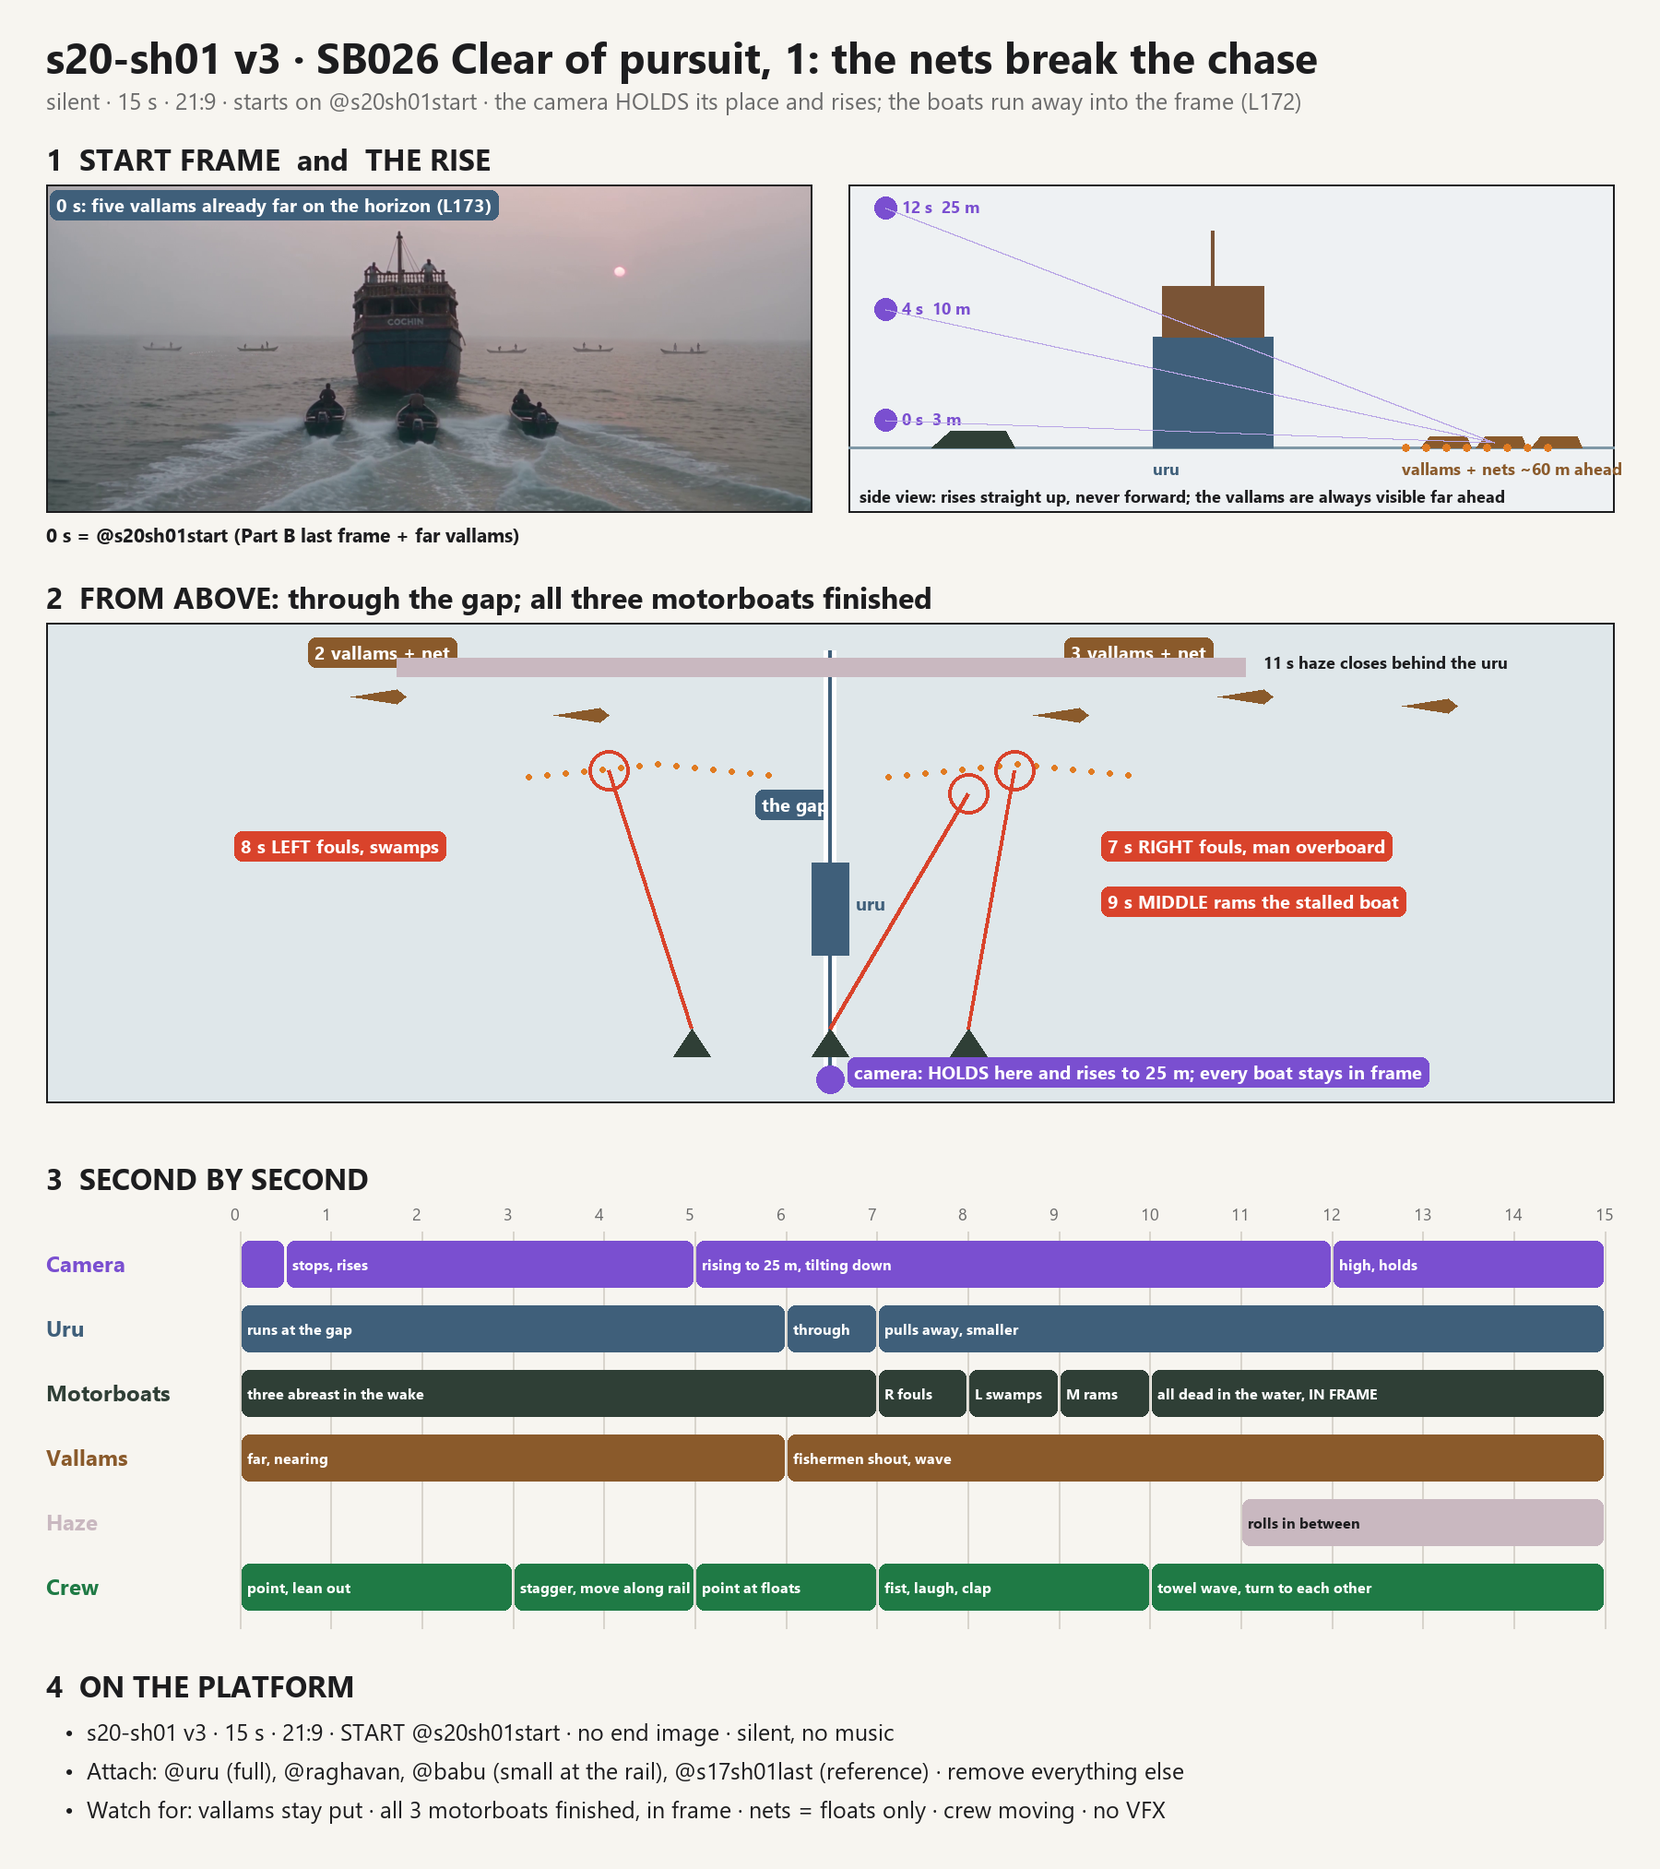
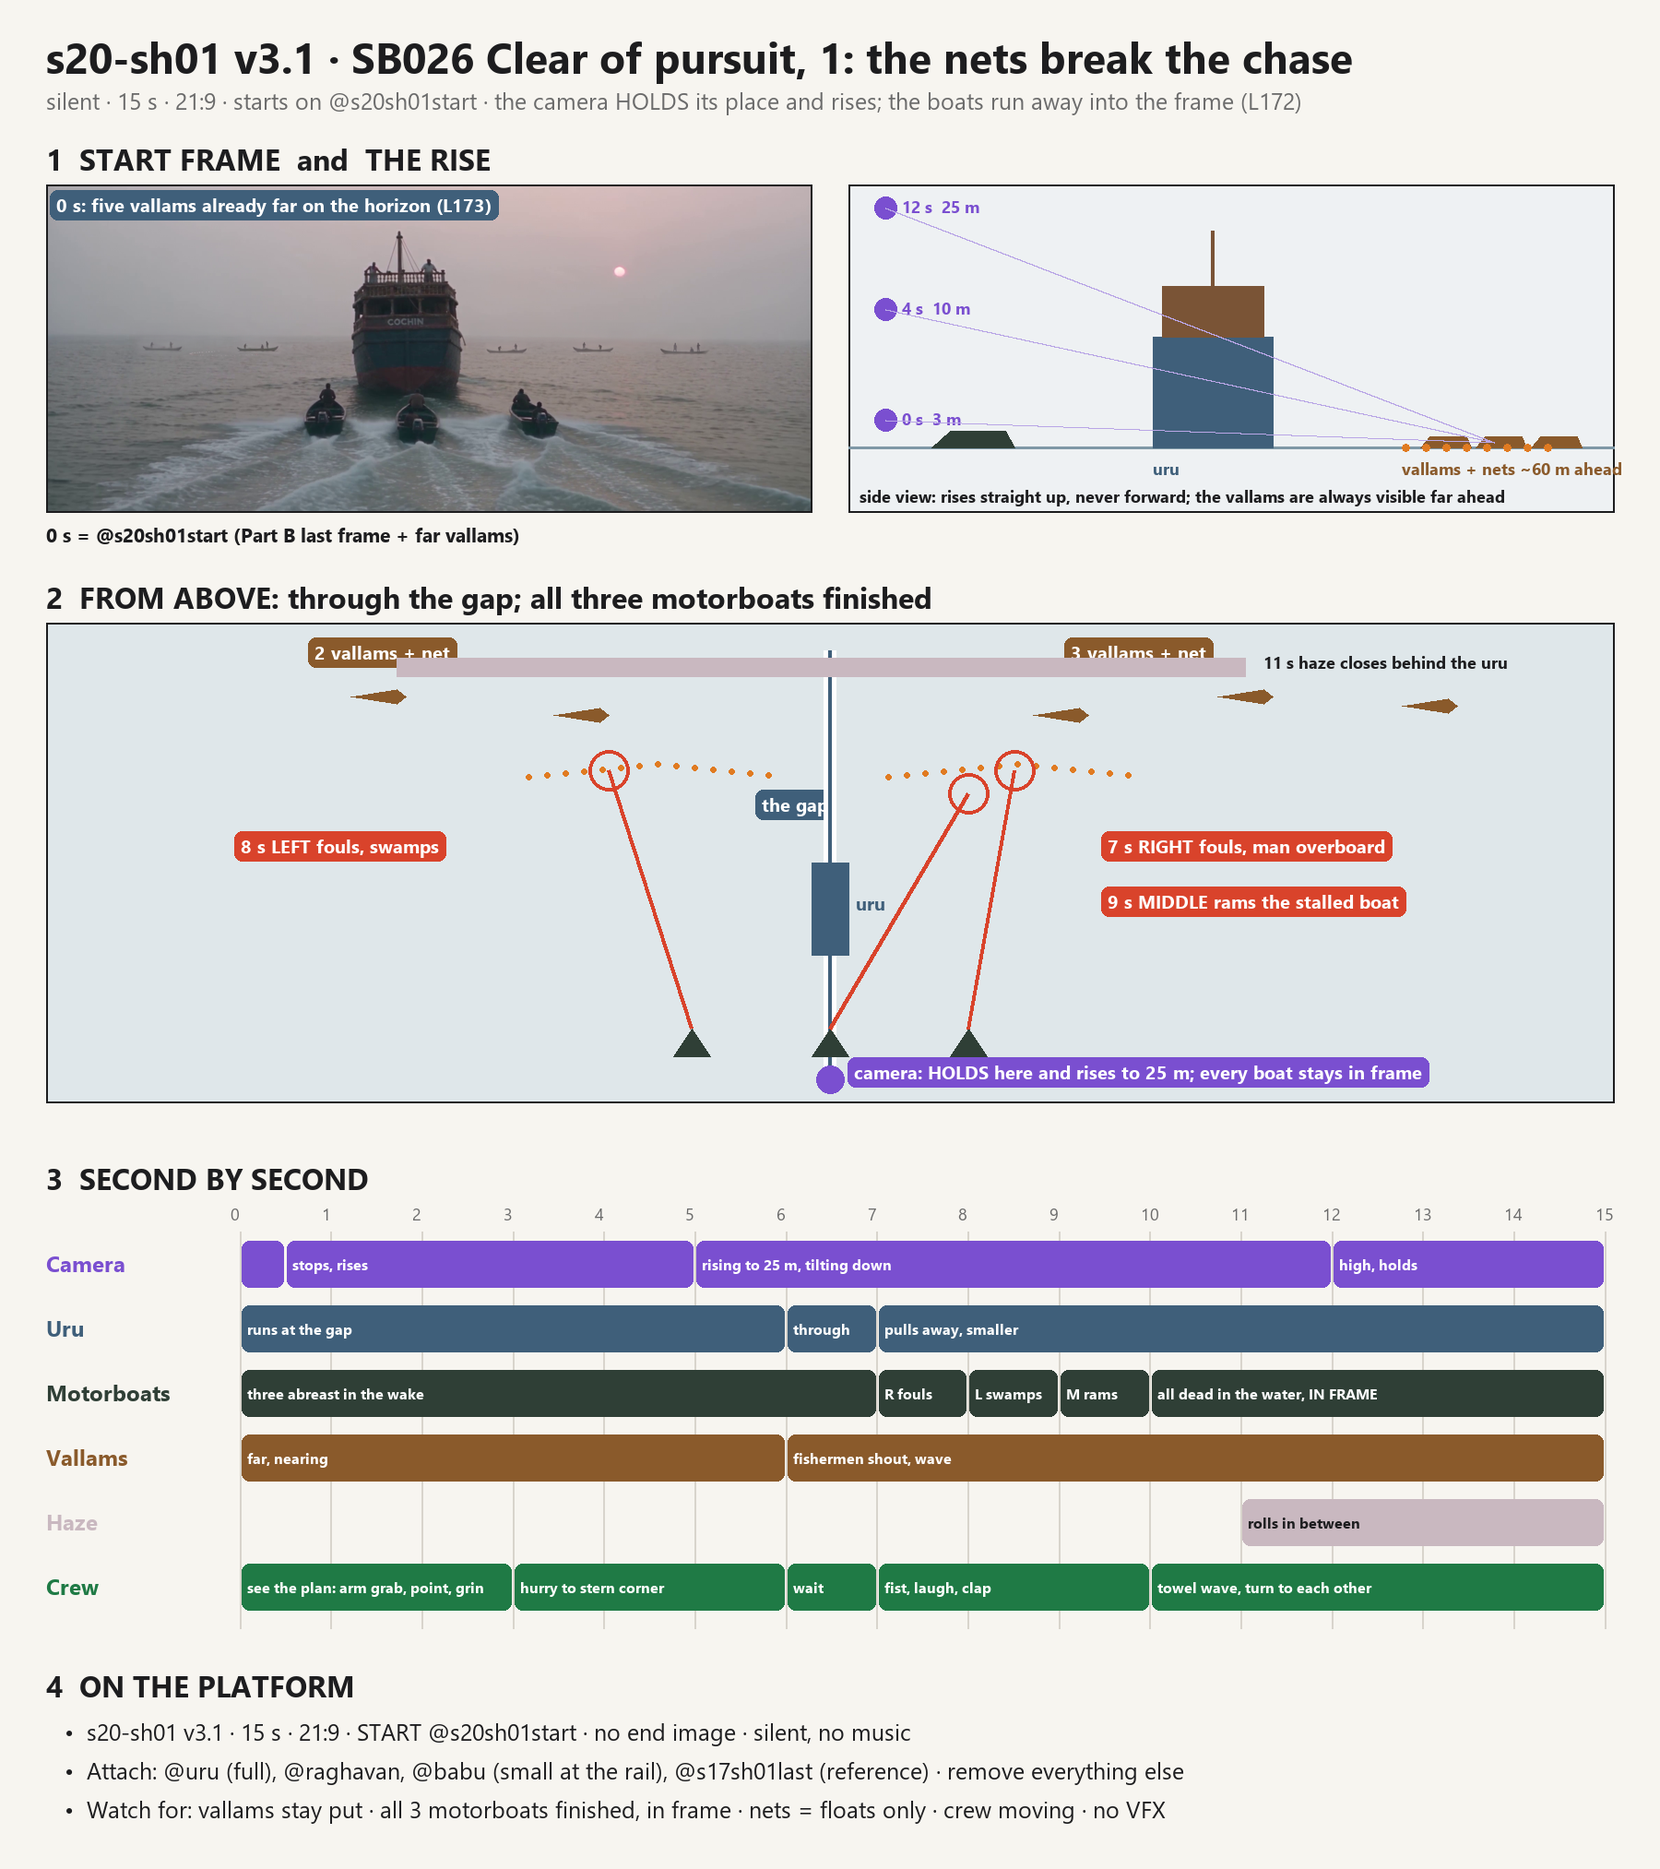
Ranjith: shot: s20-sh01 v3.1 (crew anticipation beats; the uru rolls and heels)

diff --git a/tools/shotsheets/s20-sh01.py b/tools/shotsheets/s20-sh01.py
@@ -10,7 +10,7 @@ def tag(xy, text, col, f=None):
     f = f or F(20, True); x, y = xy; tw = d.textlength(text, font=f)
     d.rounded_rectangle([x - 6, y - 4, x + tw + 8, y + 28], 8, fill=col); d.text((x + 1, y - 2), text, font=f, fill="white")
 
-d.text((50, 30), "s20-sh01 v3 · SB026 Clear of pursuit, 1: the nets break the chase", font=F(46, True), fill=INK)
+d.text((50, 30), "s20-sh01 v3.1 · SB026 Clear of pursuit, 1: the nets break the chase", font=F(46, True), fill=INK)
 d.text((50, 92), "silent · 15 s · 21:9 · starts on @s20sh01start · the camera HOLDS its place and rises; the boats run away into the frame (L172)", font=F(25), fill=GREY)
 
 # 1 start frame + side view of the rise-over reveal
@@ -73,7 +73,7 @@ rows = [("Camera", CAM, [(0, 0.5, ""), (0.5, 5, "stops, rises"), (5, 12, "rising
         ("Motorboats", MOT, [(0, 7, "three abreast in the wake"), (7, 8, "R fouls"), (8, 9, "L swamps"), (9, 10, "M rams"), (10, 15, "all dead in the water, IN FRAME")]),
         ("Vallams", VAL, [(0, 6, "far, nearing"), (6, 15, "fishermen shout, wave")]),
         ("Haze", HAZE, [(11, 15, "rolls in between")]),
-        ("Crew", "#1f7a45", [(0, 3, "point, lean out"), (3, 5, "stagger, move along rail"), (5, 7, "point at floats"), (7, 10, "fist, laugh, clap"), (10, 15, "towel wave, turn to each other")])]
+        ("Crew", "#1f7a45", [(0, 3, "see the plan: arm grab, point, grin"), (3, 6, "hurry to stern corner"), (6, 7, "wait"), (7, 10, "fist, laugh, clap"), (10, 15, "towel wave, turn to each other")])]
 for sec in range(0, 16):
     x = tx + tw_ * sec / S; d.line([x, ty, x, ty + 70 * len(rows) + 10], fill="#d8d4cc", width=2); d.text((x - 10, ty - 32), f"{sec}", font=F(18), fill=GREY)
 for i, (lab, col, segs) in enumerate(rows):
@@ -87,7 +87,7 @@ for i, (lab, col, segs) in enumerate(rows):
 # 4 platform
 y3 = ty + 70 * len(rows) + 50
 d.text((50, y3), "4  ON THE PLATFORM", font=F(32, True), fill=INK)
-lines = ["s20-sh01 v3 · 15 s · 21:9 · START @s20sh01start · no end image · silent, no music",
+lines = ["s20-sh01 v3.1 · 15 s · 21:9 · START @s20sh01start · no end image · silent, no music",
          "Attach: @uru (full), @raghavan, @babu (small at the rail), @s17sh01last (reference) · remove everything else",
          "Watch for: vallams stay put · all 3 motorboats finished, in frame · nets = floats only · crew moving · no VFX"]
 for i, t in enumerate(lines): d.text((70, y3 + 55 + i * 42), "•  " + t, font=F(25), fill=INK)

diff --git a/scenes/showreel/s20-sh01.md b/scenes/showreel/s20-sh01.md
@@ -1,6 +1,7 @@
-# s20-sh01 · SB026 (Ref 20) — Clear of pursuit, 1: the nets break the chase (silent) · 15 s · v3
+# s20-sh01 · SB026 (Ref 20) — Clear of pursuit, 1: the nets break the chase (silent) · 15 s · v3.1
 Status: **ready (Ranjith, 2026-11-23)** · silent · start image `@s20sh01start` = Part B's last frame with the five vallams added far on the horizon (L173)
 Created by: Ranjith
+v3.1 (Ranjith, 2026-11-23: "is raghavan and babu anticipating and moving", "uru will have a slight tilting"): the uru rolls about 3 degrees on the swell all through and heels about 5 degrees lining up for the gap; Raghavan and Babu now build the moment: they see the plan (arm grab, point, grin), hurry to the stern corner and wait with held breath as the motorboats race for the nets, then burst out at the snag.
 v3 (Ranjith, 2026-11-23): v2.1 made the vallams pop up out of the sea; Ranjith: "can valams be shown far and then we move and then the chase happens" and "the motor boats should ... sink or they should fall, so that they dont come back and follow". v3 starts on `@s20sh01start` (five vallams already far on the horizon, L173), keeps the hold-and-rise camera (L172), sends the uru through the gap between the nets, and finishes all three motorboats: one fouls and throws a man overboard, one fouls and swamps, one rams the stalled boat. v2 kept in `retired/s20-sh01-v2.md`.
 v2.1 (Ranjith, 2026-11-23): "babu and raghavan should also move and not stand like statue" (L83): they point, stagger on the heel, move along the rail, punch the air, clap, wave a towel, from 0 s to the end.
 v2 (Ranjith, 2026-11-23): v1 lost the motorboats (the camera travelled with the uru and outran them; Ranjith: "this does not show it avoids the motor boats"). v2 holds the camera's place and rises (Ranjith chose "Use this camera move"), so the uru, all three motorboats and the nets stay in one frame and the pursuers are seen caught and left behind (L172); the nets are named as flat drift nets with float lines (v1 made Chinese lift nets). v1 kept in `retired/s20-sh01-v1.md`.
@@ -47,23 +48,23 @@ One continuous shot, 15 seconds, real time, no cut, no slow motion, 21:9 cinemat
 
 CAMERA AND ACTION
 At the start the camera is 3 m above the water behind the motorboats, a 28mm lens. From 0.5s it stops travelling with the boats and holds its place over the sea, rising straight up and tilting down, smooth and steady, about 2 m per second, to about 25 m by 12.0s; it never moves forward and never passes the motorboats.
-0.0s to 3.0s — From the start frame: the chase runs straight at the far vallams; the motorboats bounce in the wake, the men crouched; Raghavan leans far out over the balustrade and points ahead at the vallams with his right arm, turning his head to Babu; Babu shifts along the rail toward him, shading his eyes. The camera begins to rise; the boats start to draw away from it toward the vallams, which grow from small shapes on the horizon as the boats close on them.
-3.0s to 6.0s — Rising and tilting down: the five vallams and their float lines now clear ahead, the fishermen standing at their nets and turning to look; the uru steers for the narrow gap between the net ends; Raghavan and Babu grab the rail as the uru leans into a small correction, then lean out, Babu pointing down at the floats ahead.
-6.0s to 7.0s — The uru slides through the gap, about 1 m from the floats on each side; the three motorboats, spread wide behind it, cannot all follow through the gap.
+0.0s to 3.0s — From the start frame: the chase runs straight at the far vallams; the motorboats bounce in the wake, the men crouched; Raghavan spots the vallams and their nets ahead, grabs Babu's arm with his left hand and points ahead with his right, his head snapping between the nets and the motorboats behind as he understands the plan; Babu follows his arm, shading his eyes, then turns and looks back at the motorboats with a slow grin. The camera begins to rise; the boats start to draw away from it toward the vallams, which grow from small shapes on the horizon as the boats close on them.
+3.0s to 6.0s — Rising and tilting down: the five vallams and their float lines now clear ahead, the fishermen standing at their nets and turning to look; the uru steers for the narrow gap between the net ends; Raghavan and Babu grab the rail as the uru heels about 5 degrees into a small correction and rolls back, then hurry along the rail to the stern corner and lean out over it, looking back down at the motorboats racing toward the floats; Babu jabs a finger down at the float lines, then at the motorboats.
+6.0s to 7.0s — The uru slides through the gap, about 1 m from the floats on each side; the three motorboats, spread wide behind it, cannot all follow through the gap; at the stern corner Raghavan and Babu hold their breath, both bent over the rail, fists clenched on it, eyes on the motorboats, waiting for it to happen.
 7.0s to 10.0s — The right-hand motorboat fouls at 7.0s and a man goes over the side; the left-hand motorboat fouls and swamps at 8.0s; the middle one rams the stalled boat and stalls at 9.0s; at the rail Raghavan punches the air with his right fist and slaps the rail, Babu throws his head back and laughs once without words and claps Raghavan on the shoulder; the fishermen shout and wave.
 10.0s to 15.0s — High and rising slowly, looking down and ahead: the three motorboats lie dead among the floats in the middle of the frame, one half swamped, a man in the water hauling himself back aboard; the uru pulls away beyond the vallams toward the open sea, smaller; a low bank of white-pink haze drifts across between the motorboats and the uru; Raghavan and Babu turn to each other, Raghavan wiping his face with the towel from his neck, Babu pulling the towel off his head and waving it once back at the stranded motorboats; the shot ends with the uru clear beyond the haze.
 
 EYELINES
-Raghavan and Babu look ahead at the vallams, then back down at the motorboats as they are caught; the men in the motorboats look at the nets and at the uru; the fishermen look at the motorboats; nobody looks at the camera.
+Raghavan and Babu look ahead at the vallams, then at each other, then back down at the motorboats racing for the nets, waiting, and at the boats as they are caught; the men in the motorboats look at the nets and at the uru; the fishermen look at the motorboats; nobody looks at the camera.
 
 ACTING & MICRO-EXPRESSION
-Seen small and from above, bodies carry it: the motorboat men crouched and leaning forward, then thrown forward, one into the sea, the others grabbing the sides and bailing; the middle boat's driver hauling the tiller over too late; Raghavan and Babu keep moving: pointing, leaning out, gripping the rail, the fist, the laugh, the clap on the shoulder, the towels; the fishermen standing, arms waving, angry at the boats in their nets. Restrained faces, big clear bodies.
+Seen small and from above, bodies carry it: the motorboat men crouched and leaning forward, then thrown forward, one into the sea, the others grabbing the sides and bailing; the middle boat's driver hauling the tiller over too late; Raghavan and Babu keep moving and build the moment: the dawning understanding (the grab of the arm, the point, the grin), the anticipation (hurrying to the stern corner, bent over the rail, fists clenched, breath held), then the release (the fist, the laugh, the clap on the shoulder, the towels); the fishermen standing, arms waving, angry at the boats in their nets. Restrained faces, big clear bodies.
 
 CAPTURE IMPERFECTIONS
 A slight sway as the camera rises in the sea wind; 1.5s a little spray from a motorboat flicks across the lower frame; 7.2s the white water of the first snag catches the light; 8.1s a sheet of water over the swamping stern; 12.0s a slight focus breath as the haze arrives.
 
 REAL-WORLD PHYSICS
-The uru, about 30 tonnes of wood, moves at about 13 km/h and keeps its speed through the gap; its wide wake spreads behind it. The motorboats, each about 2 tonnes, run at about 20 km/h until the nets; a propeller wrapped in a net stalls the engine at once, the stern kicks round and the boat slews and stops, white water boiling at the stern, the float line dragging and bunching around it. The sudden stop throws a standing man forward over the gunwale; a low-sided boat stopped dead with two men aft dips its stern and takes water over the transom, settling until only its gunwales show. The middle boat, at speed, knocks into the stalled boat's stern and both rock hard. The vallams rock in the wakes; the floats bob and drag. Because the camera holds its place, the boats grow smaller as they run away, and the vallams grow nearer only as the boats close on them. The haze is a low white-pink bank about 5 m high drifting across at walking speed. Wind about 15 km/h lifts the men's towels and hair. Nothing moves by itself; every movement has a cause.
+The uru, about 30 tonnes of wood, moves at about 13 km/h and keeps its speed through the gap; all through the shot it rolls slowly about 3 degrees from side to side on the swell every 4 to 5 seconds and pitches gently, its mast swaying against the sky; from 3.0s to 6.0s, lining up for the gap, it heels about 5 degrees to one side and comes back upright; Raghavan and Babu sway with every roll, knees soft, hands on the rail; its wide wake spreads behind it. The motorboats, each about 2 tonnes, run at about 20 km/h until the nets; a propeller wrapped in a net stalls the engine at once, the stern kicks round and the boat slews and stops, white water boiling at the stern, the float line dragging and bunching around it. The sudden stop throws a standing man forward over the gunwale; a low-sided boat stopped dead with two men aft dips its stern and takes water over the transom, settling until only its gunwales show. The middle boat, at speed, knocks into the stalled boat's stern and both rock hard. The vallams rock in the wakes; the floats bob and drag. Because the camera holds its place, the boats grow smaller as they run away, and the vallams grow nearer only as the boats close on them. The haze is a low white-pink bank about 5 m high drifting across at walking speed. Wind about 15 km/h lifts the men's towels and hair. Nothing moves by itself; every movement has a cause.
 
 PERFORMANCE
 Urgent, real and loose, never stiff or mechanical; everybody keeps moving the whole time. The pursuers' crash and scramble, the fishermen's anger, the crew's relief. No weapons, no fighting, no look into the lens.
@@ -82,7 +83,7 @@ CONSTRAINTS
 The shot starts exactly on the start frame, with the five vallams already visible far ahead; no new boat appears during the shot and the vallams never move to new places or rise out of the water. The camera never moves forward and never passes the motorboats; the uru, all three motorboats and the vallams stay in frame together from 3.0s to the end. Exactly one uru, exactly three motorboats (two men each), exactly five vallams (plain canoes, no frames or poles), exactly two men at the top-deck rail (Raghavan and Babu). The nets are flat drift nets seen only as float lines on the water. The motorboats stay behind the uru; none comes alongside or passes it; all three end stopped among the nets. Nobody is hurt badly: the man in the water climbs back. The uru stays about three motorboat lengths long, never bigger, its propeller and rudder under water. Only COCHIN on the stern as writing; no flags, no numbers, no logos, no weapons, no gunfire, no fire, no explosion, no Navy, no land. No one speaks. No English words, no subtitles. No cut, no zoom.
 
 POSITIVE LOCKS
-Starts on the start frame with five vallams far ahead. The camera holds its place and rises to about 25 m, tilting down; the boats run away from it toward the vallams. The uru slips through the gap between the nets at 6.0s. The right-hand motorboat fouls and a man goes overboard at 7.0s; the left-hand one fouls and swamps at 8.0s; the middle one rams the stalled boat and stalls at 9.0s; from 10.0s all three lie dead in the water and cannot follow; the uru pulls away; haze from 11.0s. Raghavan and Babu move the whole time. Everyone moving the whole time. Runs the full 15 seconds.
+Starts on the start frame with five vallams far ahead. The camera holds its place and rises to about 25 m, tilting down; the boats run away from it toward the vallams. The uru slips through the gap between the nets at 6.0s. The right-hand motorboat fouls and a man goes overboard at 7.0s; the left-hand one fouls and swamps at 8.0s; the middle one rams the stalled boat and stalls at 9.0s; from 10.0s all three lie dead in the water and cannot follow; the uru pulls away; haze from 11.0s. Raghavan and Babu move the whole time: they see the plan, hurry to the stern corner and wait with held breath, then burst out at the snag. Everyone moving the whole time. Runs the full 15 seconds.
 
 INTENT: The moment the chase ends for good: the fishermen's nets catch all three pursuers in plain sight, and the uru slips through the gap and away into the haze.
 ```
